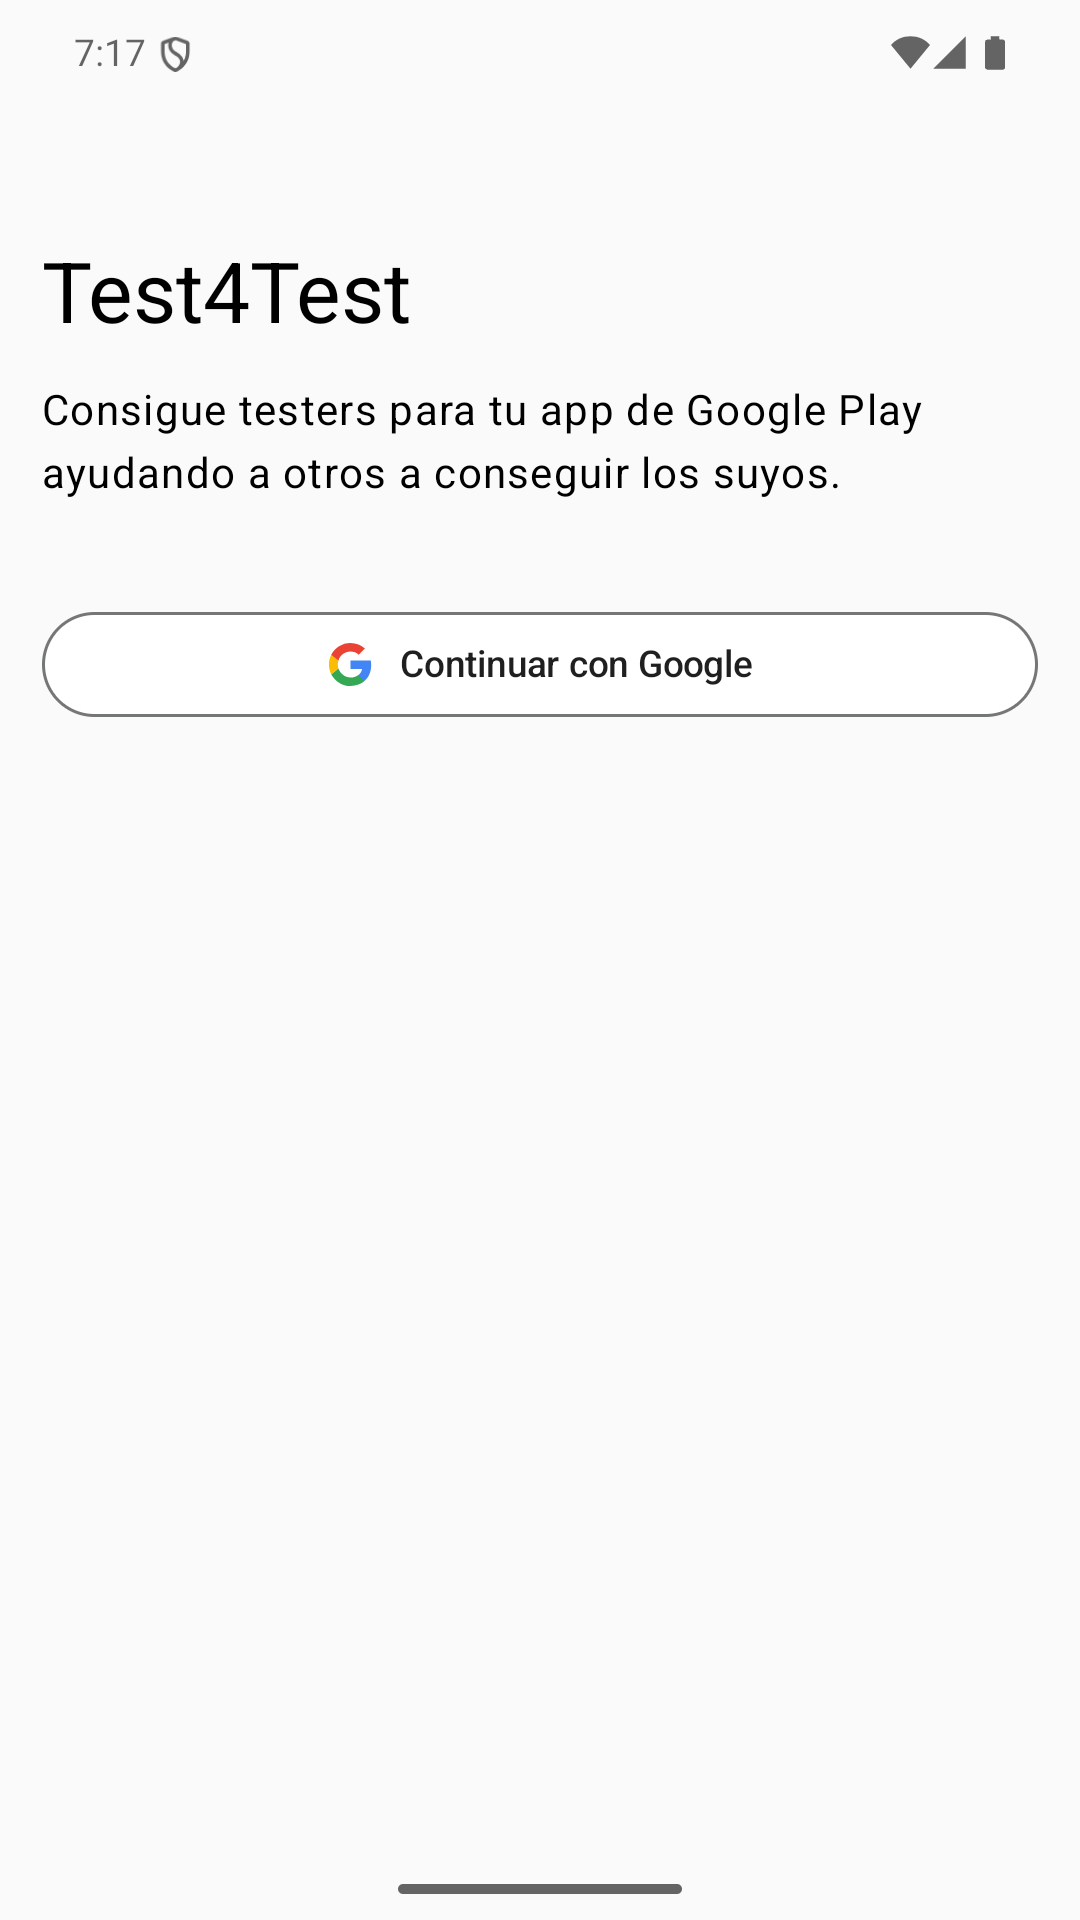
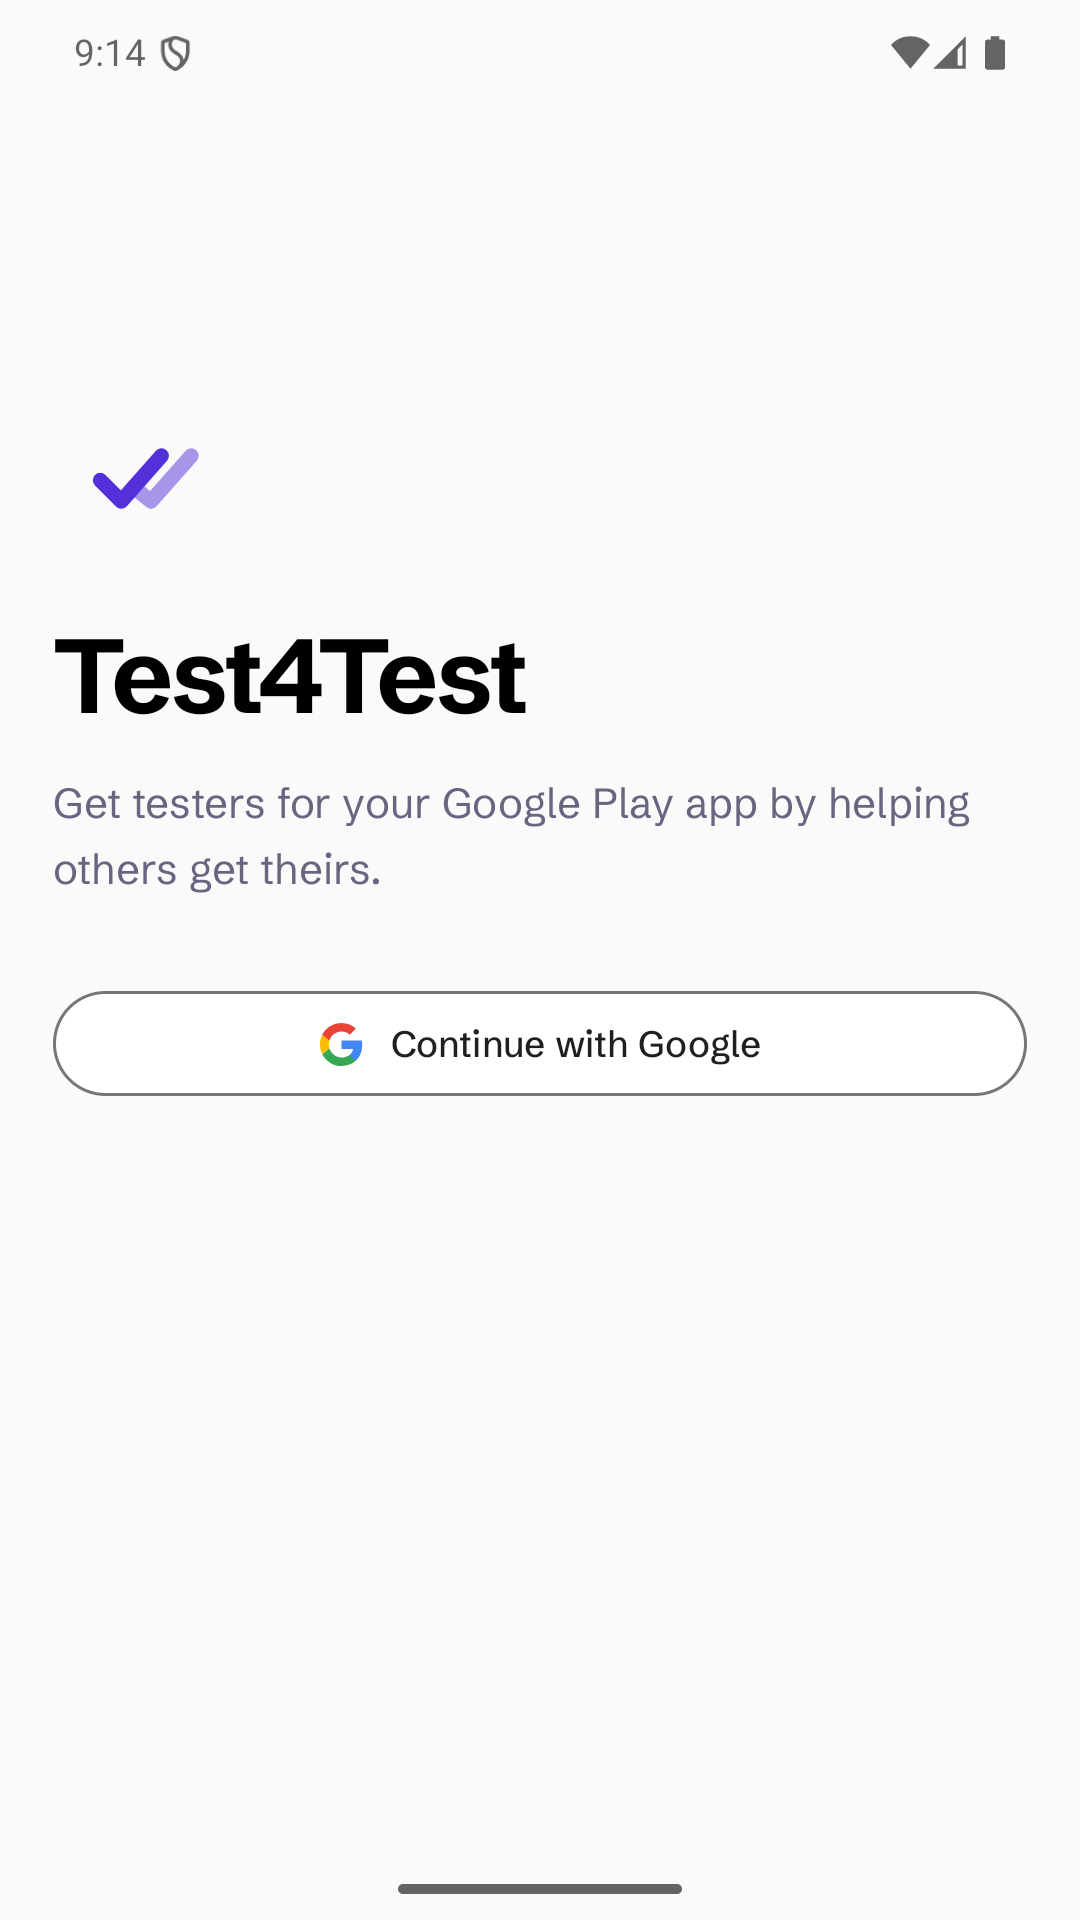
feat: capturas de Play y filete en las tarjetas de comentario
Las tarjetas de comentario eran el unico Card sin borde, asi que sobre el
papel casi no se veian. Mismo filete que AppListItem.

diff --git a/shared/src/commonMain/kotlin/com/baltajmn/test4test/AppDetailScreen.kt b/shared/src/commonMain/kotlin/com/baltajmn/test4test/AppDetailScreen.kt
@@ -8,7 +8,9 @@ import androidx.compose.foundation.layout.fillMaxWidth
 import androidx.compose.foundation.layout.padding
 import androidx.compose.foundation.rememberScrollState
 import androidx.compose.material3.Button
+import androidx.compose.foundation.BorderStroke
 import androidx.compose.material3.Card
+import androidx.compose.material3.CardDefaults
 import androidx.compose.material3.FilterChip
 import androidx.compose.material3.HorizontalDivider
 import androidx.compose.material3.MaterialTheme
@@ -228,7 +230,12 @@ fun AppDetailScreen(
         }
         for (view in comments) {
             item(key = view.comment.id) {
-                Card(Modifier.fillMaxWidth()) {
+                Card(
+                    modifier = Modifier.fillMaxWidth(),
+                    colors = CardDefaults.cardColors(containerColor = MaterialTheme.colorScheme.surfaceContainer),
+                    elevation = CardDefaults.cardElevation(defaultElevation = 0.dp),
+                    border = BorderStroke(1.dp, MaterialTheme.colorScheme.outlineVariant),
+                ) {
                     Column(Modifier.padding(16.dp), verticalArrangement = Arrangement.spacedBy(4.dp)) {
                         Text(
                             view.authorName.ifBlank { stringResource(Res.string.comment_author_fallback) },
